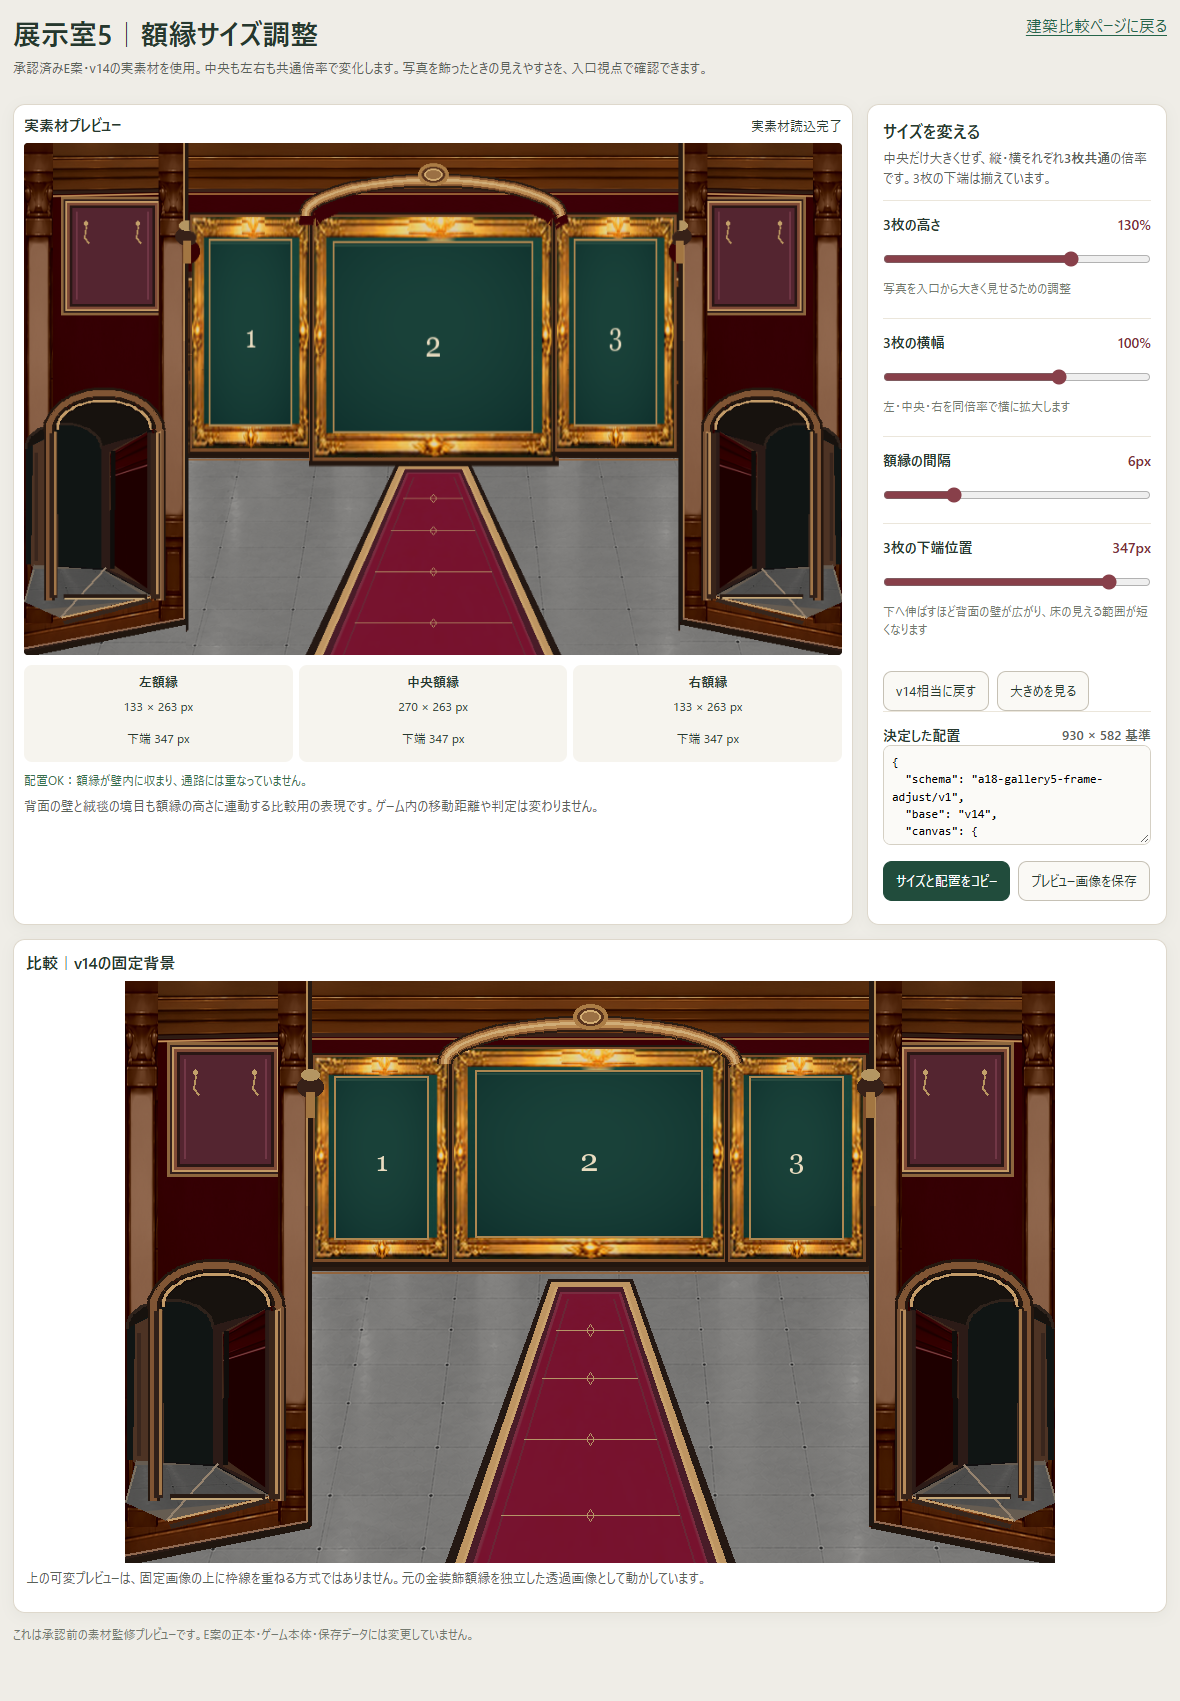
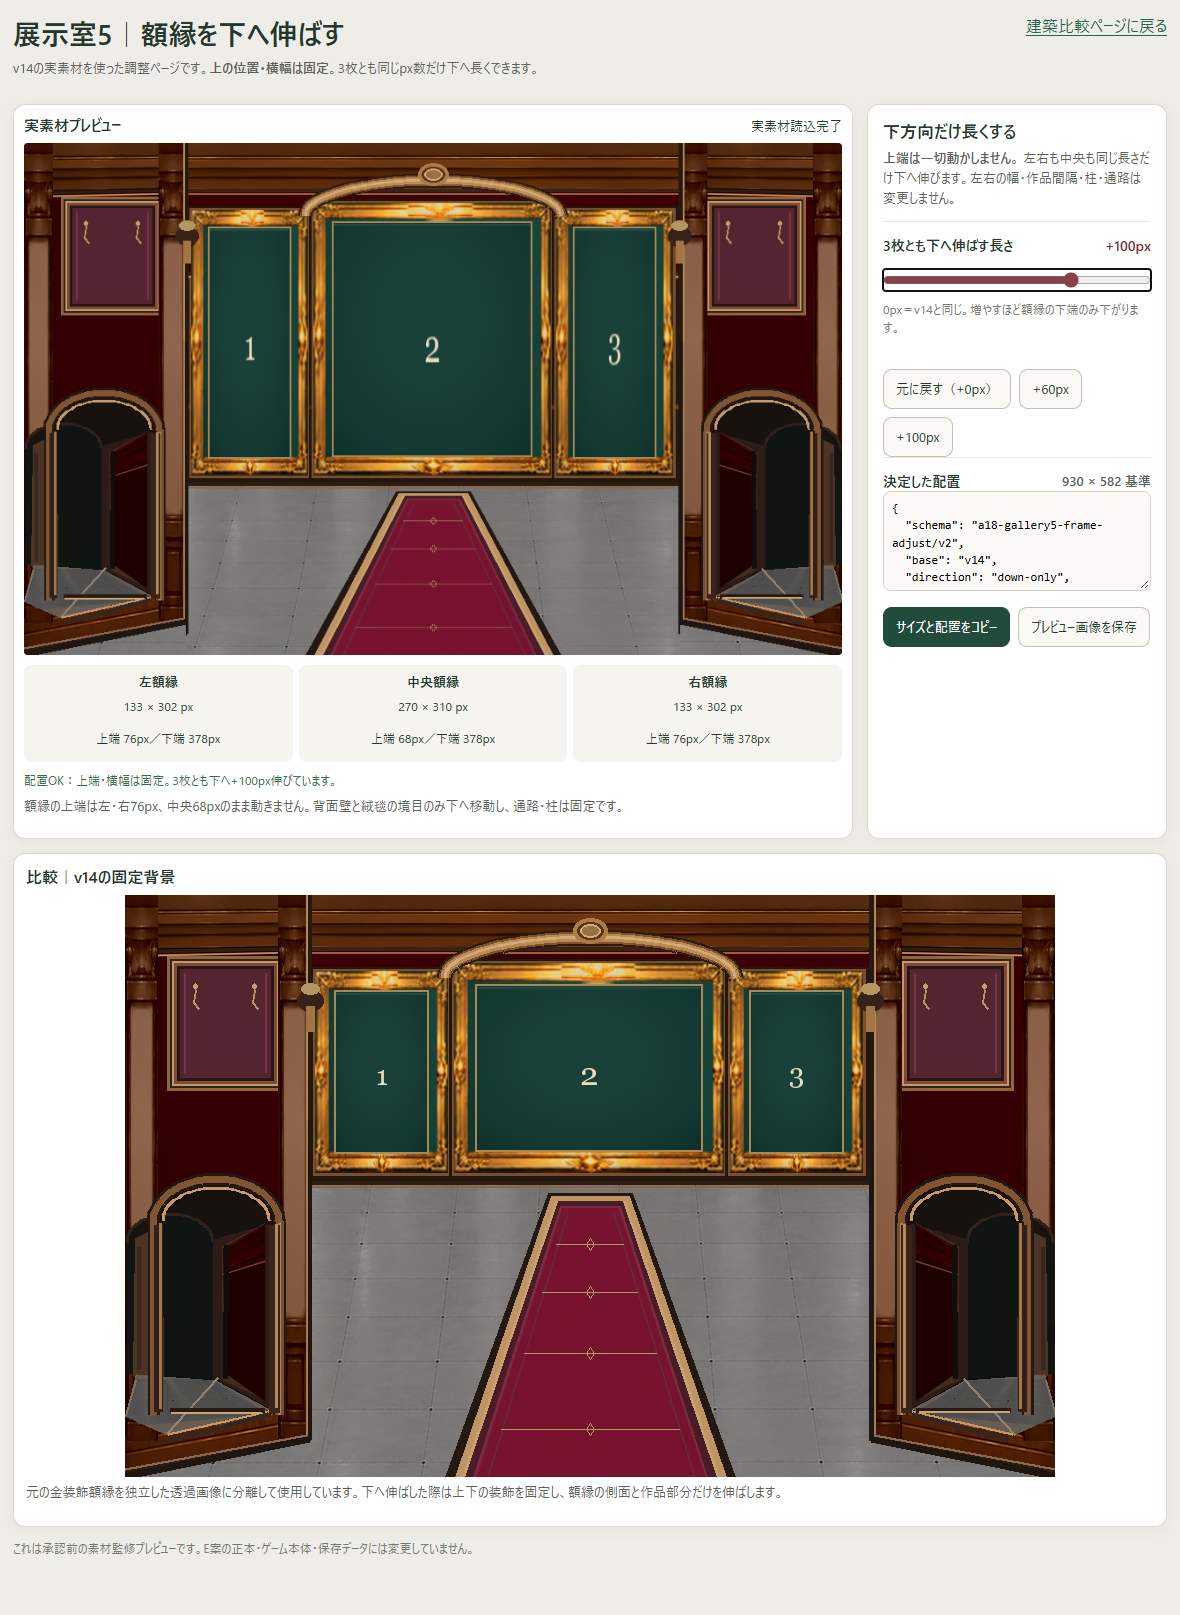
fix(a18): anchor all gallery5 frames at top and extend only downward

diff --git a/architecture-review/entrance-gallery5-comparison/frame-adjuster/index.html b/architecture-review/entrance-gallery5-comparison/frame-adjuster/index.html
@@ -2,7 +2,7 @@
 <html lang="ja">
 <head>
 <meta charset="utf-8"><meta name="viewport" content="width=device-width, initial-scale=1">
-<title>展示室5｜実素材・3額縁サイズ調整</title>
+<title>展示室5｜3額縁を下方向へ伸ばすプレビュー</title>
 <style>
 :root{font-family:system-ui,-apple-system,"Hiragino Kaku Gothic ProN","Yu Gothic",sans-serif;color:#26382e;background:#efede7}
 *{box-sizing:border-box}
@@ -40,8 +40,8 @@ textarea{width:100%;min-height:100px;border:1px solid #d5d0c4;border-radius:8px;
 </head>
 <body><main>
 <div class="head"><div>
-<h1>展示室5｜額縁サイズ調整</h1>
-<p class="muted">承認済みE案・v14の実素材を使用。中央も左右も共通倍率で変化します。写真を飾ったときの見えやすさを、入口視点で確認できます。</p>
+<h1>展示室5｜額縁を下へ伸ばす</h1>
+<p class="muted">v14の実素材を使った調整ページです。<strong>上の位置・横幅は固定</strong>。3枚とも同じpx数だけ下へ長くできます。</p>
 </div><a href="../">建築比較ページに戻る</a></div>
 <div class="grid">
 <section class="card art" aria-label="額縁サイズ可変プレビュー">
@@ -49,33 +49,20 @@ textarea{width:100%;min-height:100px;border:1px solid #d5d0c4;border-radius:8px;
 <canvas id="stage" width="930" height="582" aria-label="展示室5の建築背景と拡大縮小できる3枚の金額縁"></canvas>
 <div class="metrics"><div id="leftMetric"></div><div id="centerMetric"></div><div id="rightMetric"></div></div>
 <p id="warning" role="status" aria-live="polite"></p>
-<p class="muted">背面の壁と絨毯の境目も額縁の高さに連動する比較用の表現です。ゲーム内の移動距離や判定は変わりません。</p>
+<p class="muted">額縁の上端は左・右76px、中央68pxのまま動きません。背面壁と絨毯の境目のみ下へ移動し、通路・柱は固定です。</p>
 </section>
 <section class="card panel">
-<h2>サイズを変える</h2>
-<p class="muted">中央だけ大きくせず、縦・横それぞれ<strong>3枚共通</strong>の倍率です。3枚の下端は揃えています。</p>
+<h2>下方向だけ長くする</h2>
+<p class="muted"><strong>上端は一切動かしません。</strong> 左右も中央も同じ長さだけ下へ伸びます。左右の幅・作品間隔・柱・通路は変更しません。</p>
 <div class="control">
-<label for="height"><span>3枚の高さ</span><output id="heightOut">100%</output></label>
-<input id="height" type="range" min="80" max="150" step="1" value="100">
-<p class="help">写真を入口から大きく見せるための調整</p>
-</div>
-<div class="control">
-<label for="width"><span>3枚の横幅</span><output id="widthOut">100%</output></label>
-<input id="width" type="range" min="80" max="110" step="1" value="100">
-<p class="help">左・中央・右を同倍率で横に拡大します</p>
-</div>
-<div class="control">
-<label for="gap"><span>額縁の間隔</span><output id="gapOut">6px</output></label>
-<input id="gap" type="range" min="0" max="24" step="1" value="6">
-</div>
-<div class="control">
-<label for="bottom"><span>3枚の下端位置</span><output id="bottomOut">278px</output></label>
-<input id="bottom" type="range" min="230" max="365" step="1" value="278">
-<p class="help">下へ伸ばすほど背面の壁が広がり、床の見える範囲が短くなります</p>
+<label for="extend"><span>3枚とも下へ伸ばす長さ</span><output id="extendOut">+0px</output></label>
+<input id="extend" type="range" min="0" max="140" step="1" value="0">
+<p class="help">0px＝v14と同じ。増やすほど額縁の下端のみ下がります。</p>
 </div>
 <div class="actions">
-<button type="button" id="reset">v14相当に戻す</button>
-<button type="button" id="large">大きめを見る</button>
+<button type="button" id="reset">元に戻す（+0px）</button>
+<button type="button" id="medium">+60px</button>
+<button type="button" id="large">+100px</button>
 </div>
 <div class="control">
 <label for="json"><span>決定した配置</span><span class="muted">930 × 582 基準</span></label>
@@ -89,7 +76,7 @@ textarea{width:100%;min-height:100px;border:1px solid #d5d0c4;border-radius:8px;
 </div>
 <section class="card comparison"><h2>比較｜v14の固定背景</h2>
 <img src="../gallery5-v14.png" width="930" height="582" alt="修正前の展示室5 v14"/>
-<p class="muted">上の可変プレビューは、固定画像の上に枠線を重ねる方式ではありません。元の金装飾額縁を独立した透過画像として動かしています。</p>
+<p class="muted">元の金装飾額縁を独立した透過画像に分離して使用しています。下へ伸ばした際は上下の装飾を固定し、額縁の側面と作品部分だけを伸ばします。</p>
 </section>
 <p class="foot">これは承認前の素材監修プレビューです。E案の正本・ゲーム本体・保存データには変更していません。</p>
 </main>
@@ -97,86 +84,89 @@ textarea{width:100%;min-height:100px;border:1px solid #d5d0c4;border-radius:8px;
 (() => {
 "use strict";
 const W=930,H=582,WALL_LEFT=184,WALL_RIGHT=746;
-const inputs={height:document.getElementById("height"),width:document.getElementById("width"),gap:document.getElementById("gap"),bottom:document.getElementById("bottom")};
+const BASE_BOTTOM=278,BASE_WALL_END=292;
+const slider=document.getElementById("extend"),valueOut=document.getElementById("extendOut");
 const stage=document.getElementById("stage"),ctx=stage.getContext("2d",{alpha:false});
 const warning=document.getElementById("warning"),imageState=document.getElementById("imageState");
 const json=document.getElementById("json");
 const spriteData=[
-  {id:"left",label:"左",src:"frame_left.png",w:133,h:202,offsetX:6,offsetY:5},
-  {id:"center",label:"中央",src:"frame_center.png",w:270,h:202,offsetX:6,offsetY:5},
-  {id:"right",label:"右",src:"frame_right.png",w:133,h:202,offsetX:6,offsetY:5}
+  {id:"left",label:"左",src:"frame_left.png",x:190,y:76,w:133,h:202,padX:6,padY:5},
+  {id:"center",label:"中央",src:"frame_center.png",x:329,y:68,w:270,h:210,padX:6,padY:5},
+  {id:"right",label:"右",src:"frame_right.png",x:605,y:76,w:133,h:202,padX:6,padY:5}
 ];
 const images={};
 let ready=false,current=null;
-const load=(url)=>new Promise((resolve,reject)=>{
- const im=new Image();
- im.onload=()=>resolve(im);
- im.onerror=()=>reject(Error(url+" の読込に失敗"));
- im.src=url;
+const load=url=>new Promise((resolve,reject)=>{
+ const im=new Image();im.onload=()=>resolve(im);im.onerror=()=>reject(Error(url+" の読込に失敗"));im.src=url;
 });
-function value(k){return Number(inputs[k].value);}
 function calculate(){
- const widthPct=value("width"),heightPct=value("height"),gap=value("gap"),bottom=value("bottom");
- const widths=spriteData.map(s=>Math.round(s.w*widthPct/100));
- const heights=spriteData.map(s=>Math.round(s.h*heightPct/100));
- const total=widths.reduce((a,b)=>a+b,0)+gap*2;
- let cursor=Math.round((W-total)/2);
- const rects=spriteData.map((s,i)=>{const r={id:s.id,x:cursor,y:bottom-heights[i],w:widths[i],h:heights[i]};cursor+=widths[i]+gap;return r;});
- const wallEnd=Math.max(292,bottom+13);
- const fits=rects[0].x>=WALL_LEFT+2 && rects[2].x+rects[2].w<=WALL_RIGHT-2 && wallEnd<=410 && rects.every(r=>r.y>=58);
- return {schema:"a18-gallery5-frame-adjust/v1",base:"v14",canvas:{width:W,height:H},widthPercent:widthPct,heightPercent:heightPct,gap,bottom,wallEnd,rects,valid:fits};
+ const extendDownPx=Number(slider.value);
+ const rects=spriteData.map(s=>({id:s.id,x:s.x,y:s.y,w:s.w,h:s.h+extendDownPx,topFixed:s.y,bottom:s.y+s.h+extendDownPx}));
+ const wallEnd=BASE_WALL_END+extendDownPx;
+ const valid=wallEnd<=432 && rects.every(r=>r.x>=WALL_LEFT && r.x+r.w<=WALL_RIGHT && r.y>=58);
+ return {schema:"a18-gallery5-frame-adjust/v2",base:"v14",direction:"down-only",
+  canvas:{width:W,height:H},extendDownPx,wallEnd,rects,valid};
 }
-function renderBackground(wallEnd){
+// Render the actual walnut wall higher in the visual order, keeping its original
+// y=0..280 pixels intact. Only the lower rear-wall/floor seam is extended.
+function renderBackground(extra){
  ctx.drawImage(images.base,0,0,W,H);
- if(wallEnd!==292){
-   // Only replace the REAR wall / floor. The side corridors and columns are untouched.
-   const l=WALL_LEFT,r=WALL_RIGHT,ww=r-l;
-   ctx.save();ctx.beginPath();ctx.rect(l,146,ww,H-146);ctx.clip();
-   // Existing real walnut paneling extended to match the chosen large frames.
-   ctx.drawImage(images.base,l,146,ww,140,l,146,ww,wallEnd-146-6);
-   // Floor and runner keep their original perspective footprint at the lower edge.
-   ctx.drawImage(images.base,l,292,ww,H-292,l,wallEnd,ww,H-wallEnd);
-   // The lower edge of the actual walnut skirting is moved to the new seam.
-   ctx.drawImage(images.base,l,286,ww,6,l,wallEnd-6,ww,6);
-   ctx.restore();
- }
+ if(extra===0)return;
+ const l=WALL_LEFT,ww=WALL_RIGHT-WALL_LEFT;
+ ctx.save();
+ ctx.beginPath();ctx.rect(l,280,ww,H-280);ctx.clip();
+ // Extend only the BOTTOM of the rear walnut panel, never the top arch/pillars.
+ ctx.drawImage(images.base,l,224,ww,62,l,280,ww,extra+6);
+ // Move skirting and foreshorten the same existing stone floor and runner.
+ ctx.drawImage(images.base,l,286,ww,6,l,286+extra,ww,6);
+ ctx.drawImage(images.base,l,292,ww,H-292,l,292+extra,ww,H-292-extra);
+ ctx.restore();
+}
+// Draw the real transparent frame with a vertical 3-slice:
+// upper and lower gold ornaments keep their native height, while the middle
+// timber rails/teal picture area stretch only downwards.
+function drawExtendedFrame(im,s,extra){
+ const x=s.x-s.padX,y=s.y-s.padY,sourceW=im.naturalWidth,sourceH=im.naturalHeight;
+ const capTop=43,capBottom=39;
+ const sourceMiddle=sourceH-capTop-capBottom;
+ const destMiddle=sourceMiddle+extra;
+ ctx.drawImage(im,0,0,sourceW,capTop,x,y,sourceW,capTop);
+ ctx.drawImage(im,0,capTop,sourceW,sourceMiddle,x,y+capTop,sourceW,destMiddle);
+ ctx.drawImage(im,0,sourceH-capBottom,sourceW,capBottom,x,y+capTop+destMiddle,sourceW,capBottom);
 }
 function render(){
  const data=calculate();current=data;
- for(const k of Object.keys(inputs))document.getElementById(k+"Out").textContent=value(k)+(k==="width"||k==="height"?"%":"px");
+ valueOut.textContent="+"+data.extendDownPx+"px";
  json.value=JSON.stringify(data,null,2);
- data.rects.forEach((r,i)=>{
-   document.getElementById(["left","center","right"][i]+"Metric").innerHTML="<strong>"+spriteData[i].label+"額縁</strong><div>"+r.w+" × "+r.h+" px</div><div>下端 "+(r.y+r.h)+" px</div>";
- });
+ for(let i=0;i<3;i++){
+  const r=data.rects[i],title=spriteData[i].label;
+  document.getElementById(["left","center","right"][i]+"Metric").innerHTML=
+  "<strong>"+title+"額縁</strong><div>"+r.w+" × "+r.h+" px</div><div>上端 "+r.y+"px／下端 "+r.bottom+"px</div>";
+ }
  warning.className=data.valid?"good":"";
- warning.textContent=data.valid?"配置OK：額縁が壁内に収まり、通路には重なっていません。":"壁からはみ出す配置です。横幅・間隔・下端を調整してください。";
+ warning.textContent=data.valid?
+ "配置OK：上端・横幅は固定。3枚とも下へ+"+data.extendDownPx+"px伸びています。":
+ "この延長は背面壁からはみ出します。調整してください。";
  document.getElementById("copy").disabled=!data.valid;
- document.getElementById("save").disabled=!data.valid || !ready;
+ document.getElementById("save").disabled=!data.valid||!ready;
  if(!ready)return;
  ctx.clearRect(0,0,W,H);
- renderBackground(data.wallEnd);
- for(let i=0;i<3;i++){
-   const r=data.rects[i],s=spriteData[i],im=images[s.id];
-   const sx=r.w/s.w,sy=r.h/s.h;
-   ctx.drawImage(im,r.x-s.offsetX*sx,r.y-s.offsetY*sy,im.naturalWidth*sx,im.naturalHeight*sy);
- }
+ renderBackground(data.extendDownPx);
+ for(const s of spriteData)drawExtendedFrame(images[s.id],s,data.extendDownPx);
 }
-Object.values(inputs).forEach(input=>input.addEventListener("input",render));
-function setAll(data){
- for(const [k,v] of Object.entries(data)) inputs[k].value=String(v);
- render();
-}
-document.getElementById("reset").onclick=()=>setAll({height:100,width:100,gap:6,bottom:278});
-document.getElementById("large").onclick=()=>setAll({height:125,width:100,gap:6,bottom:334});
+slider.addEventListener("input",render);
+document.getElementById("reset").onclick=()=>{slider.value="0";render()};
+document.getElementById("medium").onclick=()=>{slider.value="60";render()};
+document.getElementById("large").onclick=()=>{slider.value="100";render()};
 document.getElementById("copy").onclick=async()=>{
  if(!current?.valid)return;
- const text=json.value,button=document.getElementById("copy");
- try{await navigator.clipboard.writeText(text);button.textContent="コピーしました";}
+ const button=document.getElementById("copy");
+ try{await navigator.clipboard.writeText(json.value);button.textContent="コピーしました";}
  catch{json.focus();json.select();button.textContent="選択しました。コピーしてください";}
 };
 document.getElementById("save").onclick=()=>{
  if(!current?.valid||!ready)return;
- const a=document.createElement("a");a.download="gallery5_frame_adjust_preview.png";a.href=stage.toDataURL("image/png");a.click();
+ const a=document.createElement("a");a.download="gallery5_frames_extended_down.png";a.href=stage.toDataURL("image/png");a.click();
 };
 render();
 Promise.all([load("gallery5_unframed.png"),...spriteData.map(s=>load(s.src))]).then(([base,...frames])=>{

diff --git a/qa/check_gallery5_frame_adjuster.py b/qa/check_gallery5_frame_adjuster.py
@@ -1,23 +1,24 @@
-"""A18 Gallery 5 adjustable frame preview QA. Local static page and smartphone behavior only."""
+"""A18 Gallery 5 down-only, independent-material adjustable-frame QA.
+Uses Chromium on localhost (not file://), tests real canvas pixels and mobile export.
+"""
 from pathlib import Path
 from PIL import Image,ImageChops
 from playwright.sync_api import sync_playwright
-import subprocess,json
 from http.server import SimpleHTTPRequestHandler,ThreadingHTTPServer
 from functools import partial
-import threading
+import json,subprocess,threading
 R=Path(r"C:\Users\User\source\repos\a18-gallery5-material-review")
 S=R/"architecture-review/entrance-gallery5-comparison/frame-adjuster"
 E=R/"rooms/gallery5/gallery5_palace_E.png"
-assert E.is_file()
 assert subprocess.check_output(["git","hash-object",str(E)],cwd=R,text=True).strip()==subprocess.check_output(["git","rev-parse","HEAD:rooms/gallery5/gallery5_palace_E.png"],cwd=R,text=True).strip()
 for name in ("gallery5_unframed.png","frame_left.png","frame_center.png","frame_right.png"):
-    p=S/name;assert p.is_file() and Image.open(p).width>0,(p,Image.open(p).size)
+    p=S/name;assert p.is_file() and Image.open(p).width>0,p
 assert Image.open(S/"gallery5_unframed.png").size==(930,582)
 O=R/"qa/gallery5-frame-adjuster-review";O.mkdir(exist_ok=True)
-server=ThreadingHTTPServer(('127.0.0.1',0),partial(SimpleHTTPRequestHandler,directory=str(R)))
+server=ThreadingHTTPServer(("127.0.0.1",0),partial(SimpleHTTPRequestHandler,directory=str(R)))
 threading.Thread(target=server.serve_forever,daemon=True).start()
-with sync_playwright() as pw:
+try:
+ with sync_playwright() as pw:
     browser=pw.chromium.launch(channel="chrome",headless=True)
     for width,height in ((1180,900),(390,844)):
         page=browser.new_page(viewport={"width":width,"height":height},device_scale_factor=1,accept_downloads=True)
@@ -27,44 +28,42 @@ with sync_playwright() as pw:
         assert response.status==200
         assert not errors,errors
         assert page.locator("body").evaluate("(e)=>e.scrollWidth<=innerWidth+2"),width
-        # The fixed v14 image must retain its 930:582 aspect ratio on a phone.
         aspect=page.locator(".comparison img").evaluate("(e)=>e.getBoundingClientRect().width/e.getBoundingClientRect().height")
         assert abs(aspect-930/582)<0.02,aspect
         first=json.loads(page.locator("#json").input_value())
-        assert first["valid"] and first["widthPercent"]==100 and first["heightPercent"]==100
-        assert [z["h"] for z in first["rects"]]==[202]*3
-        assert first["rects"][1]["w"]>first["rects"][0]["w"]
+        assert first["valid"] and first["extendDownPx"]==0 and first["direction"]=="down-only"
+        assert [(z["x"],z["y"],z["w"],z["h"]) for z in first["rects"]]==[(190,76,133,202),(329,68,270,210),(605,76,133,202)]
+        assert all(z["bottom"]==278 for z in first["rects"])
         page.screenshot(path=str(O/f"initial_{width}.png"),full_page=True)
-        page.locator("#height").fill("130")
-        page.locator("#bottom").fill("347")
+        original=page.locator("#stage").evaluate("(e)=>{const c=e.getContext('2d');return [[50,300],[875,300],[465,97],[265,100],[650,102]].map(([x,y])=>Array.from(c.getImageData(x,y,1,1).data))}")
+        page.locator("#extend").fill("100")
         large=json.loads(page.locator("#json").input_value())
-        assert large["valid"] and large["heightPercent"]==130 and large["bottom"]==347,large
-        assert all(z["y"]+z["h"]==347 for z in large["rects"])
-        assert all(z["h"]==263 for z in large["rects"])
-        assert large["wallEnd"]==360
+        assert large["valid"] and large["extendDownPx"]==100 and large["wallEnd"]==392,large
+        assert all(z["bottom"]==378 for z in large["rects"])
+        assert [(z["x"],z["y"],z["w"]) for z in large["rects"]]==[(z["x"],z["y"],z["w"]) for z in first["rects"]]
+        assert [z["h"] for z in large["rects"]]==[302,310,302]
         assert page.locator("body").evaluate("(e)=>e.scrollWidth<=innerWidth+2")
-        # Sidewall pixels must remain identical even while rear wall & carpet shift.
-        # Compare screenshots of the canvas' side bands while render is changed.
-        page.locator("#reset").click()
-        original=page.locator("#stage").evaluate("(e)=>{const c=e.getContext('2d');return [Array.from(c.getImageData(50,300,1,1).data),Array.from(c.getImageData(875,300,1,1).data)]}")
-        page.locator("#height").fill("130");page.locator("#bottom").fill("347")
-        updated=page.locator("#stage").evaluate("(e)=>{const c=e.getContext('2d');return [Array.from(c.getImageData(50,300,1,1).data),Array.from(c.getImageData(875,300,1,1).data)]}")
-        assert original==updated,(original,updated)
+        updated=page.locator("#stage").evaluate("(e)=>{const c=e.getContext('2d');return [[50,300],[875,300],[465,97],[265,100],[650,102]].map(([x,y])=>Array.from(c.getImageData(x,y,1,1).data))}")
+        assert original==updated,("top and side must not move",original,updated)
+        # Bottom interior clearly changes when extended, not just the label/JSON.
+        before=page.locator("#stage").screenshot()
+        page.locator("#extend").fill("0")
+        zero=page.locator("#stage").screenshot()
+        assert before!=zero
+        page.locator("#extend").fill("100")
         page.screenshot(path=str(O/f"enlarged_{width}.png"),full_page=True)
-        with page.expect_download() as got:page.locator("#save").click()
-        assert got.value.suggested_filename=="gallery5_frame_adjust_preview.png"
-        page.locator("#width").fill("110")
-        invalid=json.loads(page.locator("#json").input_value())
-        assert not invalid["valid"]
-        assert page.locator("#copy").is_disabled() and page.locator("#save").is_disabled()
+        with page.expect_download() as download:page.locator("#save").click()
+        assert download.value.suggested_filename=="gallery5_frames_extended_down.png"
+        page.locator("#medium").click()
+        assert json.loads(page.locator("#json").input_value())["extendDownPx"]==60
         page.locator("#large").click()
-        preset=json.loads(page.locator("#json").input_value())
-        assert preset["valid"] and preset["heightPercent"]==125 and preset["bottom"]==334
+        assert json.loads(page.locator("#json").input_value())["extendDownPx"]==100
         page.locator("#reset").click()
-        assert json.loads(page.locator("#json").input_value())["heightPercent"]==100
+        assert json.loads(page.locator("#json").input_value())["extendDownPx"]==0
         assert not errors,errors
-        print(f"PASS viewport={width} initial / enlarged / sidewall protected / invalid width / export / presets / scroll")
+        print(f"PASS viewport={width}: fixed tops and widths / 3 equal extensions / unchanged upper detail and corridors / exported / presets")
         page.close()
     browser.close()
-server.shutdown()
-print("Frame adjuster QA PASS")
+finally:
+ server.shutdown()
+print("Down-only frame adjuster QA PASS")
